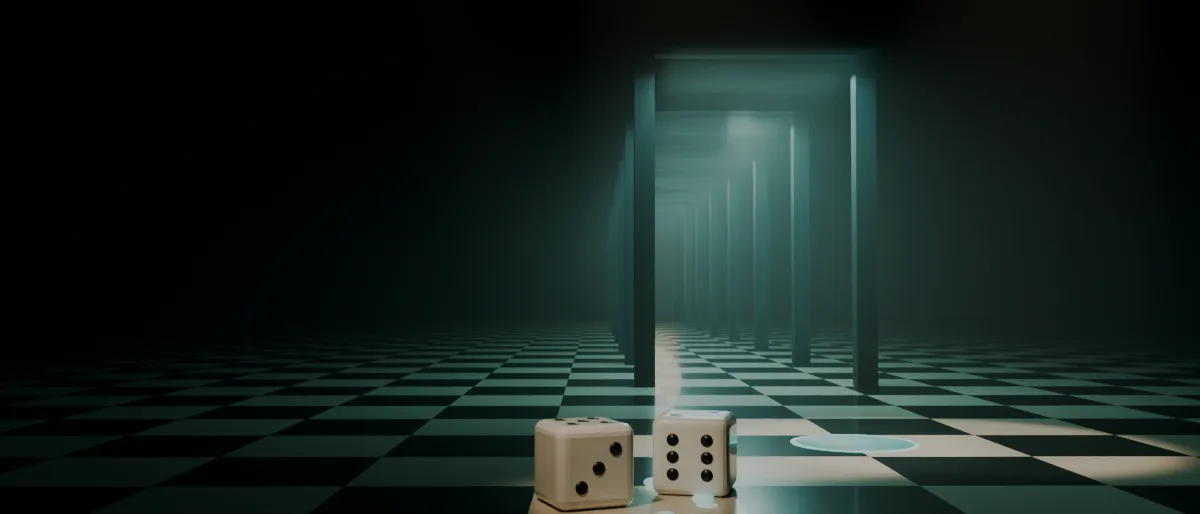
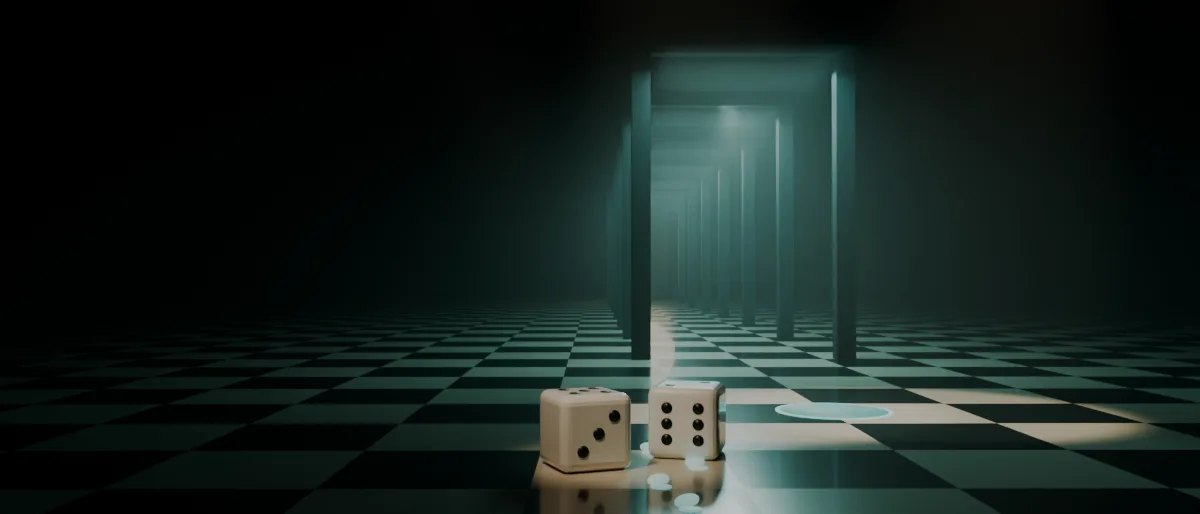
The Dance card: dice fully in frame, caption strip removed
Slightly wider lens on the layer render; the stage grows to 150px and
anchors to the bottom of the scene.

diff --git a/index.html b/index.html
@@ -849,15 +849,11 @@
   .dance-top svg rect{ fill:var(--dn-ink); } .dance-top svg .dn-wm-l{ fill:var(--dn-teal); }
   /* the stage: the game's own dance floor, rendered in two layers (the floor, and the two pieces on transparency,
      both 1200x514 so they align). Still, with a soft teal glow behind the pieces. */
-  .dance-stage{ position:relative; height:128px; overflow:hidden; background:var(--dn-cine); }
-  .dn-scene{ position:absolute; inset:0; transform:scale(1.04); transform-origin:62% 70%; }
-  .dn-scene img{ position:absolute; inset:0; width:100%; height:100%; object-fit:cover; object-position:50% 60%; }
-  .dn-halo{ position:absolute; left:58%; top:38%; width:34%; height:60%; border-radius:50%;
+  .dance-stage{ position:relative; height:150px; overflow:hidden; background:var(--dn-cine); }
+  .dn-scene{ position:absolute; inset:0; }
+  .dn-scene img{ position:absolute; inset:0; width:100%; height:100%; object-fit:cover; object-position:50% 100%; }
+  .dn-halo{ position:absolute; left:57%; top:34%; width:34%; height:60%; border-radius:50%;
     background:radial-gradient(ellipse at 50% 55%, rgba(102,212,204,.34), rgba(102,212,204,.12) 45%, rgba(102,212,204,0) 72%); }
-  .dance-cap{
-    height:34px; display:flex; align-items:center; justify-content:center; border-top:1px solid rgba(242,243,245,.08);
-    font-family:var(--font-mono); font-size:var(--fs-micro); letter-spacing:.14em; text-transform:uppercase; color:var(--dn-muted);
-  }
   /* ================= STILLWARD (room) ================= */
   .room{ background:var(--paper); color:var(--ink); }
   .room .eyebrow{ color:var(--verdant-deep); }
@@ -1687,7 +1683,6 @@
               <img class="dn-pieces" src="images/dance/pieces.webp" alt="" width="1200" height="514" decoding="async">
             </div>
           </div>
-          <div class="dance-cap"><span>Episode 1 · Scene 1 of 6</span></div>
         </a>
         <div>
           <p class="room-body">See how incentives shape decisions, how one move changes another, how trust shifts, and how small choices create unexpected consequences.</p>

diff --git a/tools/dance/render_layers.py b/tools/dance/render_layers.py
@@ -276,14 +276,14 @@ box('haze', (0.5, 12, 4), (30, 34, 8.2), fog)
 
 # Camera: low, close to the floor, looking up the corridor.
 cd = bpy.data.cameras.new('cam')
-cd.lens = 32
+cd.lens = 29.5
 cd.sensor_width = 36
 cd.dof.use_dof = True
 cd.dof.focus_distance = 7.2
 cd.dof.aperture_fstop = 4.0
 cam = link(bpy.data.objects.new('cam', cd))
 cam.location = (-1.2, -5.6, 1.0)
-cam.rotation_euler = (Vector((-1.15, 3.0, 1.3)) - cam.location).to_track_quat('-Z', 'Y').to_euler()
+cam.rotation_euler = (Vector((-1.15, 3.0, 1.15)) - cam.location).to_track_quat('-Z', 'Y').to_euler()
 sc.camera = cam
 
 sc.render.image_settings.file_format = 'PNG'

diff --git a/CLAUDE.md b/CLAUDE.md
@@ -36,7 +36,7 @@ Believe `#beliefs` → Reading `#reading`; then the Knowledge → Agency strip).
   without touching CSS. The six `.built-divider` signal lines shift their blip
   left → right down the list (H120 / H260 / H400 / H540 / H680 / H820).
 - Each project preview scopes its own product palette as custom properties on the
-  section (`.friction-room{--fr-*}`, `.decision-room{--do-*}`, `.atlas-room{--at-*}`, `.codigo-room{--cg-*}` (its card is a 30s reel gated on `.is-live`: bottles with liquid glows → piña opens on the cross → piña fades → divider lines → cross turns terracotta and the terracotta beams out → the cross and lines rise, the cross turns a quarter turn counter-clockwise, and a chrome draft faucet with the Código wooden tap handle (drawn in SVG: cherry body, walnut caps, engraved cross, "CÓDIGO 1530", "Tequila") pulls forward and pours tequila into two cross-marked shot glasses that clink (`.codigo-frame-bar`, inline SMIL, paused and started with the reel) → fade to the bottles; the cross is one element in the divider frame, under the piña, so it never moves; the piña is the store's own egg drawing in `images/codigo/pina.svg`, fetched and injected at runtime so it can be paused and seeked, rebuilt with `tools/pina/`), `.dance-room{--dn-*}` (the game's own Blender hero scene rendered in two still layers, `images/dance/floor.webp` and `images/dance/pieces.webp` (the two pawns on transparency, both 1200x514 so they align), with a soft teal radial glow (`.dn-halo`) behind the pieces; no animation; re-render with `tools/dance/render_layers.py` (a variant of the game's `render_hero.py`: `--layer bg|pieces`, the pieces pass smooths the profile, makes them glossy, and adds a stronger teal back light), convert to webp with Blender; the game lives in `~/Desktop/Shopify/the-dance`, live at the-dance-production.up.railway.app), `.aspen-room{--as-*}`, `.water-room{--wa-*}`),
+  section (`.friction-room{--fr-*}`, `.decision-room{--do-*}`, `.atlas-room{--at-*}`, `.codigo-room{--cg-*}` (its card is a 30s reel gated on `.is-live`: bottles with liquid glows → piña opens on the cross → piña fades → divider lines → cross turns terracotta and the terracotta beams out → the cross and lines rise, the cross turns a quarter turn counter-clockwise, and a chrome draft faucet with the Código wooden tap handle (drawn in SVG: cherry body, walnut caps, engraved cross, "CÓDIGO 1530", "Tequila") pulls forward and pours tequila into two cross-marked shot glasses that clink (`.codigo-frame-bar`, inline SMIL, paused and started with the reel) → fade to the bottles; the cross is one element in the divider frame, under the piña, so it never moves; the piña is the store's own egg drawing in `images/codigo/pina.svg`, fetched and injected at runtime so it can be paused and seeked, rebuilt with `tools/pina/`), `.dance-room{--dn-*}` (the game's own Blender hero scene rendered in two still layers, `images/dance/floor.webp` and `images/dance/pieces.webp` (the two pawns on transparency, both 1200x514 so they align), with a soft teal radial glow (`.dn-halo`) behind the pieces; no animation, no caption strip; the layer render uses a slightly wider lens than the game's hero so the dice sit fully in frame; re-render with `tools/dance/render_layers.py` (a variant of the game's `render_hero.py`: `--layer bg|pieces`, the pieces pass smooths the profile, makes them glossy, and adds a stronger teal back light), convert to webp with Blender; the game lives in `~/Desktop/Shopify/the-dance`, live at the-dance-production.up.railway.app), `.aspen-room{--as-*}`, `.water-room{--wa-*}`),
   pulled from that project's source. Don't leak them into `:root`.
 
 ## Design scales (pass 1, 2026-10-18)
